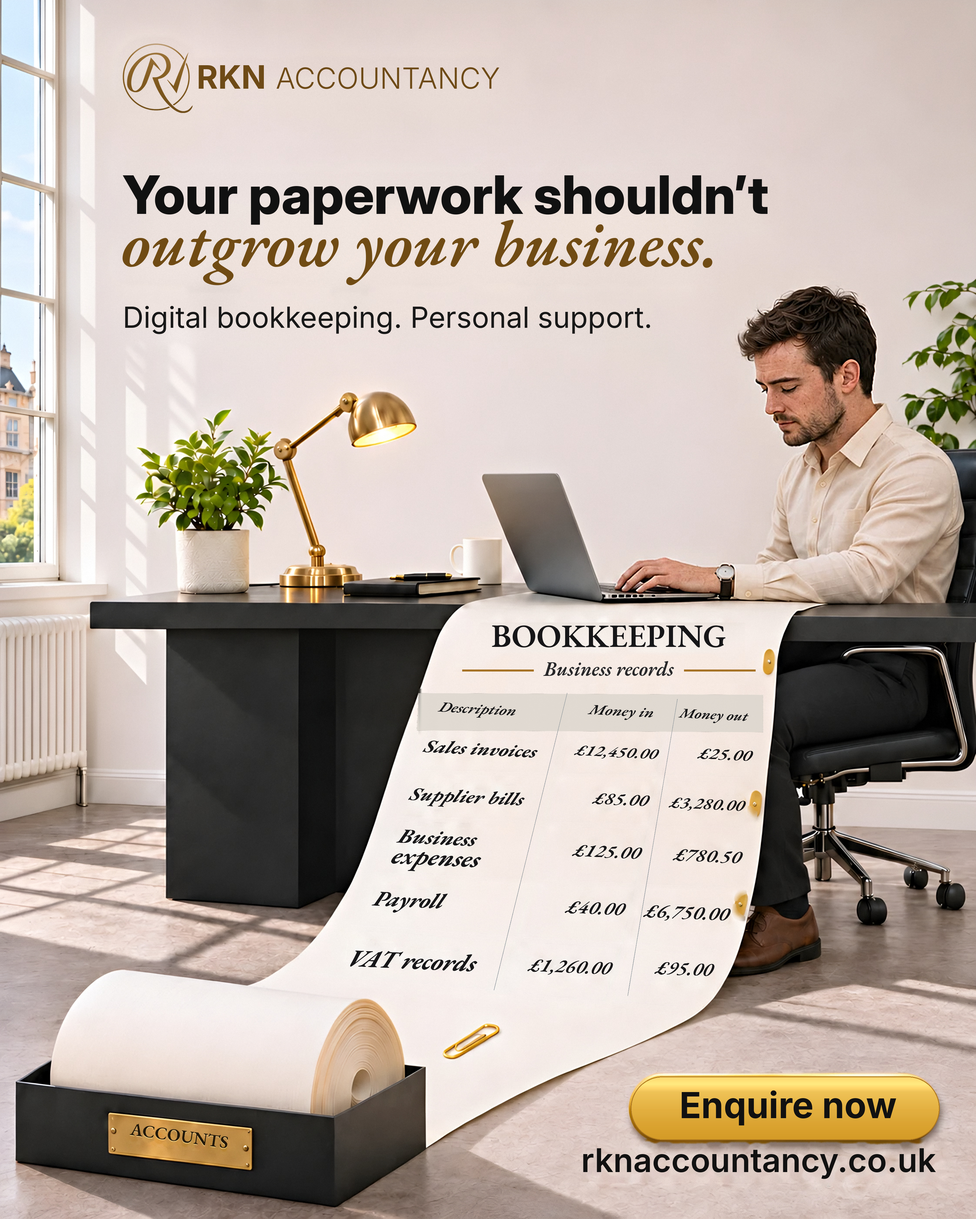
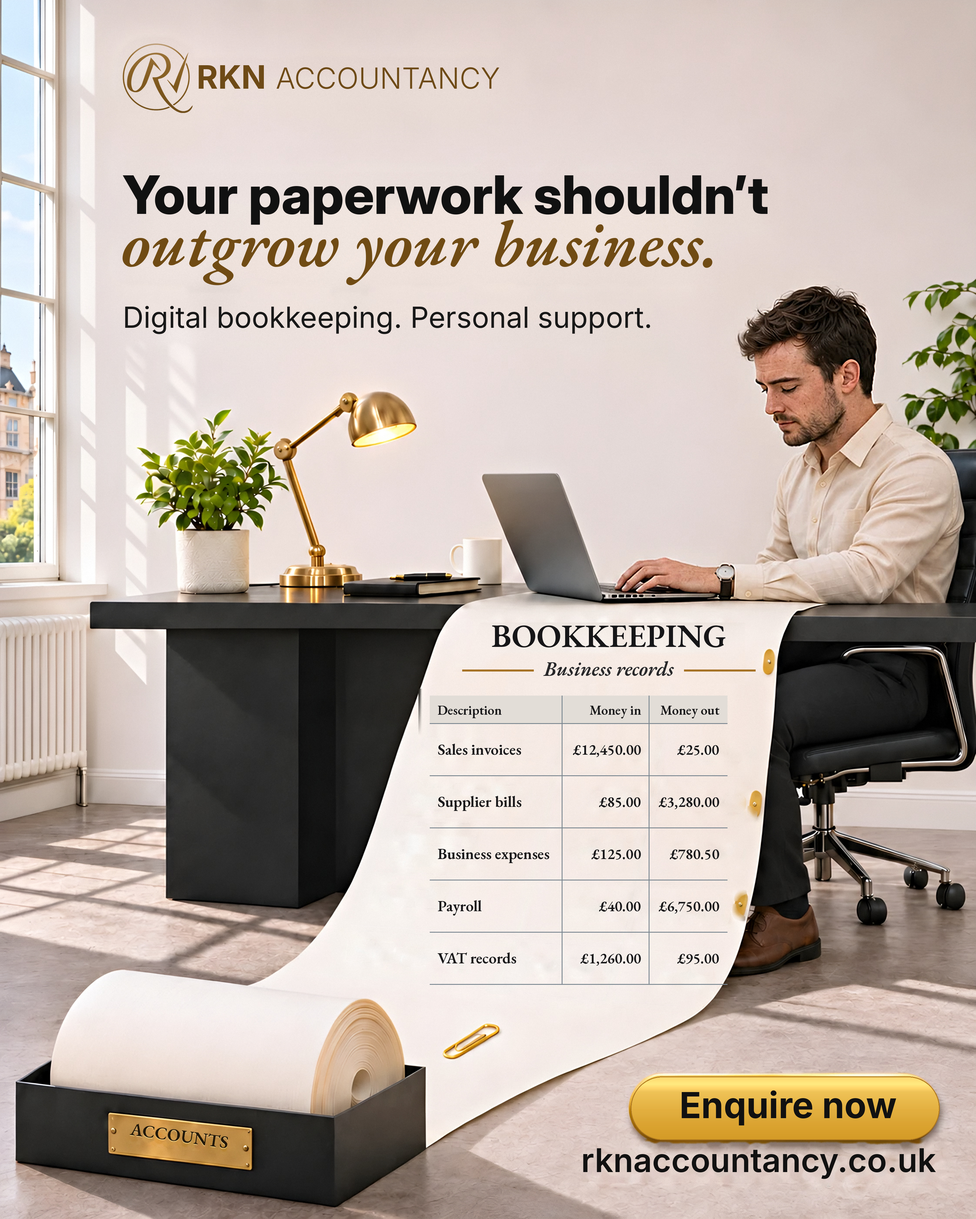
Ad 3: level, regular ledger table (uniform sizes, row rules, right-aligned amounts)
Claude-Session: https://claude.ai/code/session_01LRWP31fV6evrt9mxkM8is6

diff --git a/ad3/compose.py b/ad3/compose.py
@@ -195,67 +195,38 @@ draw.rounded_rectangle((bx0, by0, bx1, by1), radius=(by1 - by0) // 2, outline=(1
 put('Enquire now', lambda s: f_inter('bold', s), 781, 1032, 1286, NEAR_BLACK)
 put('rknaccountancy.co.uk', lambda s: f_inter('semi', s), 668, 1078, 1348, NEAR_BLACK)
 
-# ------------------------------------------------------------------ 4. the ledger, in perspective on the paper
-# homography: flat table (u 0..1000, v 0..900) -> original-image coords (measured grid corners + column lines)
-src_pts = np.float32([[0, 0], [440, 0], [700, 0], [1000, 0], [0, 900], [440, 900], [700, 900], [1000, 900]])
-dst_pts = np.float32([[488, 800], [658, 800], [771, 800], [872, 804], [358, 1121], [573, 1140], [699, 1146], [800, 1155]])
-Hm, _ = cv2.findHomography(src_pts, dst_pts)
-Hinv = np.linalg.inv(Hm)
-def to_flat(x, y):
-    p = Hinv @ np.array([x, y, 1.0]); return p[:2] / p[2]
-FS = 4                                                     # flat canvas pixels per flat unit
-V0 = -320                                                  # flat canvas starts above the table (title)
-U0 = -150
-fw, fh = 1350 * FS, (900 - V0) * FS
-flat = Image.new('RGBA', (fw, fh), (0, 0, 0, 0))
-fd = ImageDraw.Draw(flat)
-def fl(u, v): return ((u - U0) * FS, (v - V0) * FS)
-INK = (24, 24, 26, 255)
-def ltext(text, fontname, xl, yl, xr, yr, color=INK, extra=1.0):
-    (ul, vl), (ur, vr) = to_flat(xl, yl), to_flat(xr, yr)
-    v = (vl + vr) / 2
-    f = fit(lambda s: f_ebg(fontname, s), text, (ur - ul) * FS * extra)
-    fd.text(fl(ul, v), text, font=f, fill=color, anchor='ls')
-band = [to_flat(481, 797), to_flat(877, 799), to_flat(877, 842), to_flat(479, 840)]
-fd.polygon([fl(u, v) for u, v in band], fill=(226, 222, 215, 255))
-ltext('Description', 'ebg-italic-600.ttf', 503, 820, 593, 821)
-ltext('Money in', 'ebg-italic-600.ttf', 676, 822, 751, 824)
-ltext('Money out', 'ebg-italic-600.ttf', 780, 826, 859, 828)
-ROWS = [
-    ('Sales invoices', 485, 867, 616, 869, '£12,450.00', 660, 870, 755, 871, '£25.00', 802, 873, 863, 874),
-    ('Supplier bills', 469, 921, 601, 925, '£85.00', 681, 925, 744, 926, '£3,280.00', 769, 930, 855, 931),
-    ('Business', 456, 970, 546, 972, '£125.00', 658, 985, 735, 987, '£780.50', 774, 990, 851, 992),
-    ('Payroll', 428, 1041, 508, 1045, '£40.00', 650, 1050, 716, 1052, '£6,750.00', 740, 1055, 837, 1058),
-    ('VAT records', 398, 1111, 545, 1117, '£1,260.00', 607, 1117, 701, 1120, '£95.00', 753, 1120, 818, 1122),
-]
-for r in ROWS:
-    ltext(r[0], 'ebg-italic-700.ttf', *r[1:5])
-    ltext(r[5], 'ebg-italic-600.ttf', *r[6:10])
-    ltext(r[10], 'ebg-italic-600.ttf', *r[11:15])
-ltext('expenses', 'ebg-italic-700.ttf', 448, 994, 550, 996)
-# grid: column rules and row rules (flat space, so they follow the paper)
-LINE = (118, 132, 142, 235)
-def col_line(gaps):          # gaps: image points midway between two columns, one per row -> least-squares line in flat space
-    pts = np.array([to_flat(x, y) for x, y in gaps])
-    k, c = np.polyfit(pts[:, 1], pts[:, 0], 1)          # u = k v + c
-    fd.line([fl(c + k * -5, -5), fl(c + k * 905, 905)], fill=LINE, width=int(1.1 * FS))
-mid = lambda a, b: ((a[0] + b[0]) / 2, (a[1] + b[1]) / 2)
-col_line([mid((593, 821), (676, 822)), mid((616, 869), (660, 870)), mid((601, 925), (681, 925)), mid((546, 972), (658, 985)),
-          mid((508, 1045), (650, 1050)), mid((545, 1117), (607, 1117))])
-col_line([mid((751, 824), (780, 826)), mid((755, 871), (802, 873)), mid((744, 926), (769, 930)), mid((735, 987), (774, 990)),
-          mid((716, 1052), (740, 1055)), mid((701, 1120), (753, 1120))])
-# warp flat -> final image (S-scaled original coords)
-Tflat = np.array([[1 / FS, 0, U0], [0, 1 / FS, V0], [0, 0, 1]])            # flat canvas px -> (u, v)
-Sm = np.diag([S, S, 1.0])
-M = Sm @ Hm @ Tflat
-warped = cv2.warpPerspective(np.asarray(flat), M, (W, H), flags=cv2.INTER_CUBIC, borderValue=(0, 0, 0, 0))
-wimg = Image.fromarray(warped, 'RGBA')
-# printed ink, not stickers: multiply onto the paper so its shading shows through
-base = np.asarray(canvas).astype(np.float32)
-wa = warped[..., 3:4].astype(np.float32) / 255
-ink = warped[..., :3].astype(np.float32)
-base = base * (1 - wa) + (base * ink / 255) * wa * 0.25 + ink * wa * 0.75
-canvas = Image.fromarray(np.clip(base, 0, 255).astype(np.uint8))
+# ------------------------------------------------------------------ 4. the ledger: a level, regular table
+draw = ImageDraw.Draw(canvas)
+TX0, TC1, TC2, TX1 = 494, 646, 746, 836          # table left, column dividers, table right (original px)
+HY0, HY1 = 800, 832                              # header band
+ROW_H = 60
+rows_y = [HY1 + i * ROW_H for i in range(6)]     # row boundaries: 832 .. 1132
+INK = (24, 24, 26)
+LINE = (122, 134, 144)
+X = lambda v: int(round(v * S))
+# header band + labels (same size, same baseline, level)
+draw.rectangle((X(TX0), X(HY0), X(TX1), X(HY1)), fill=(226, 222, 215))
+fh = f_ebg('ebg-600.ttf', 15.5 * S)
+hb = HY1 - 10
+draw.text((X(TX0 + 9), X(hb)), 'Description', font=fh, fill=INK, anchor='ls')
+draw.text((X(TC2 - 9), X(hb)), 'Money in', font=fh, fill=INK, anchor='rs')
+draw.text((X(TX1 - 9), X(hb)), 'Money out', font=fh, fill=INK, anchor='rs')
+# rows: one label size, one amount size, amounts right-aligned in their columns
+fl_ = f_ebg('ebg-600.ttf', 18 * S)
+fa = f_ebg('ebg-600.ttf', 17 * S)
+DATA = [('Sales invoices', '\u00A312,450.00', '\u00A325.00'), ('Supplier bills', '\u00A385.00', '\u00A33,280.00'),
+        ('Business expenses', '\u00A3125.00', '\u00A3780.50'), ('Payroll', '\u00A340.00', '\u00A36,750.00'),
+        ('VAT records', '\u00A31,260.00', '\u00A395.00')]
+for i, (lab, mi, mo) in enumerate(DATA):
+    base = rows_y[i] + ROW_H / 2 + 6
+    draw.text((X(TX0 + 9), X(base)), lab, font=fl_, fill=INK, anchor='ls')
+    draw.text((X(TC2 - 9), X(base)), mi, font=fa, fill=INK, anchor='rs')
+    draw.text((X(TX1 - 9), X(base)), mo, font=fa, fill=INK, anchor='rs')
+# rules: a line under the header and after every row; straight column dividers
+for y in rows_y:
+    draw.line((X(TX0), X(y), X(TX1), X(y)), fill=LINE, width=3)
+for x in (TC1, TC2):
+    draw.line((X(x), X(HY0), X(x), X(rows_y[-1])), fill=LINE, width=3)
 
 # title block: perfectly level, crisp
 draw = ImageDraw.Draw(canvas)
